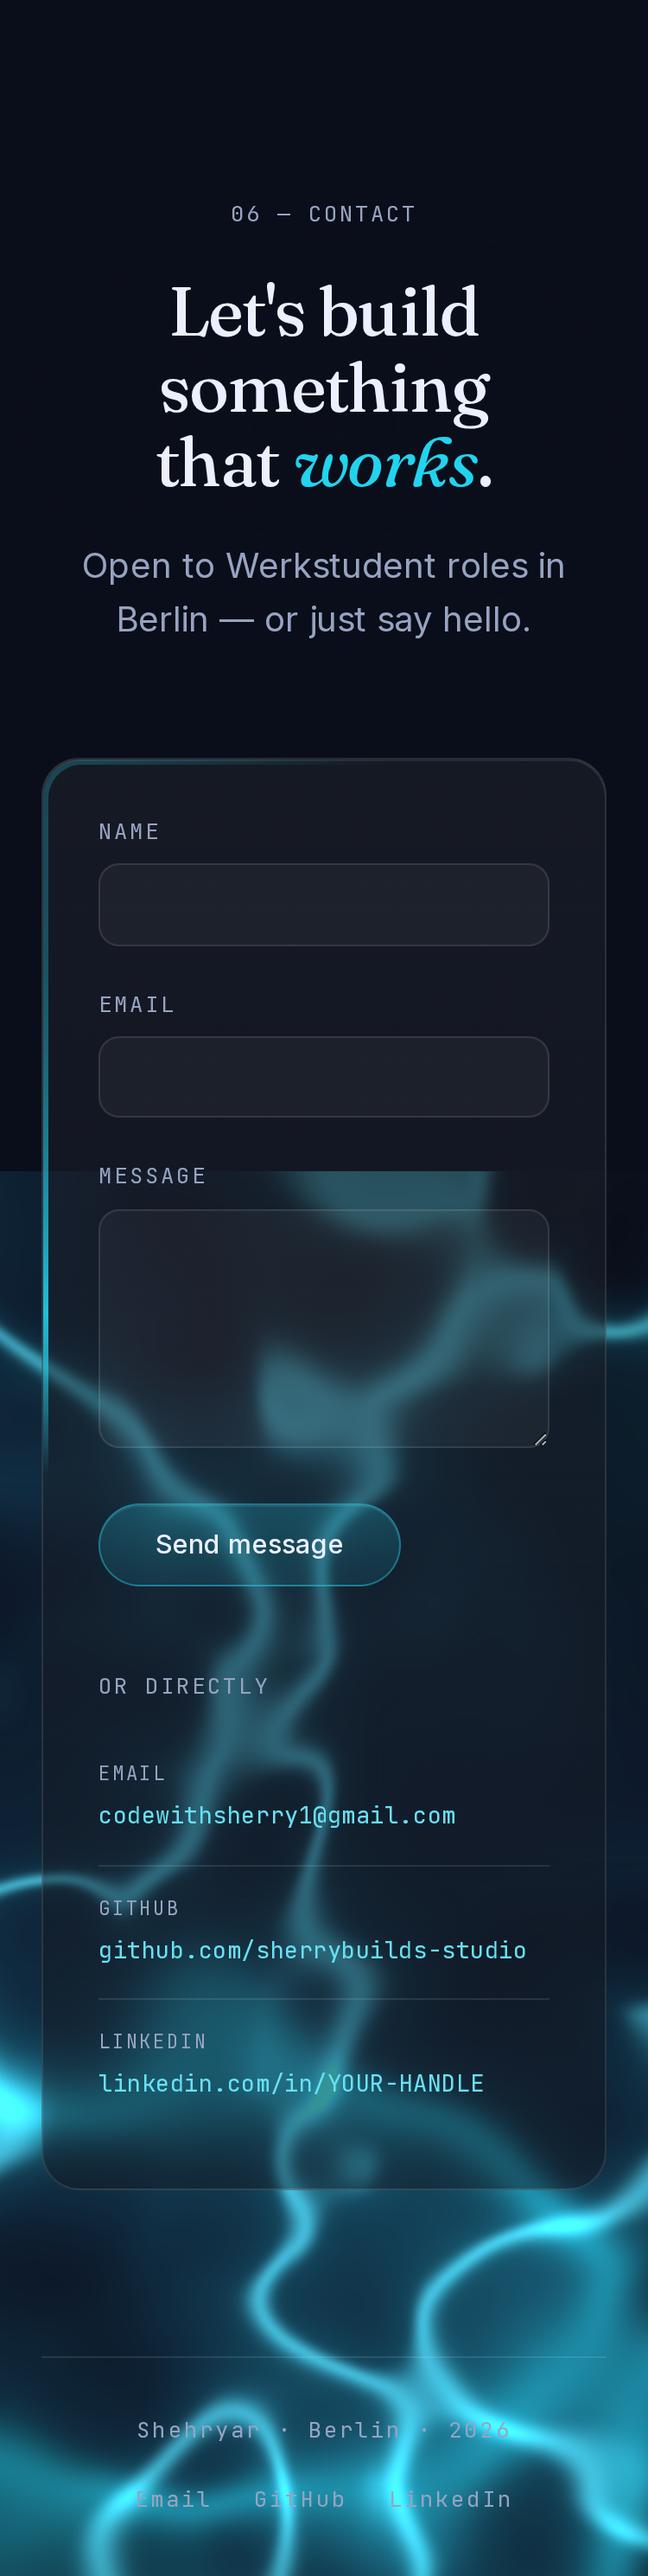
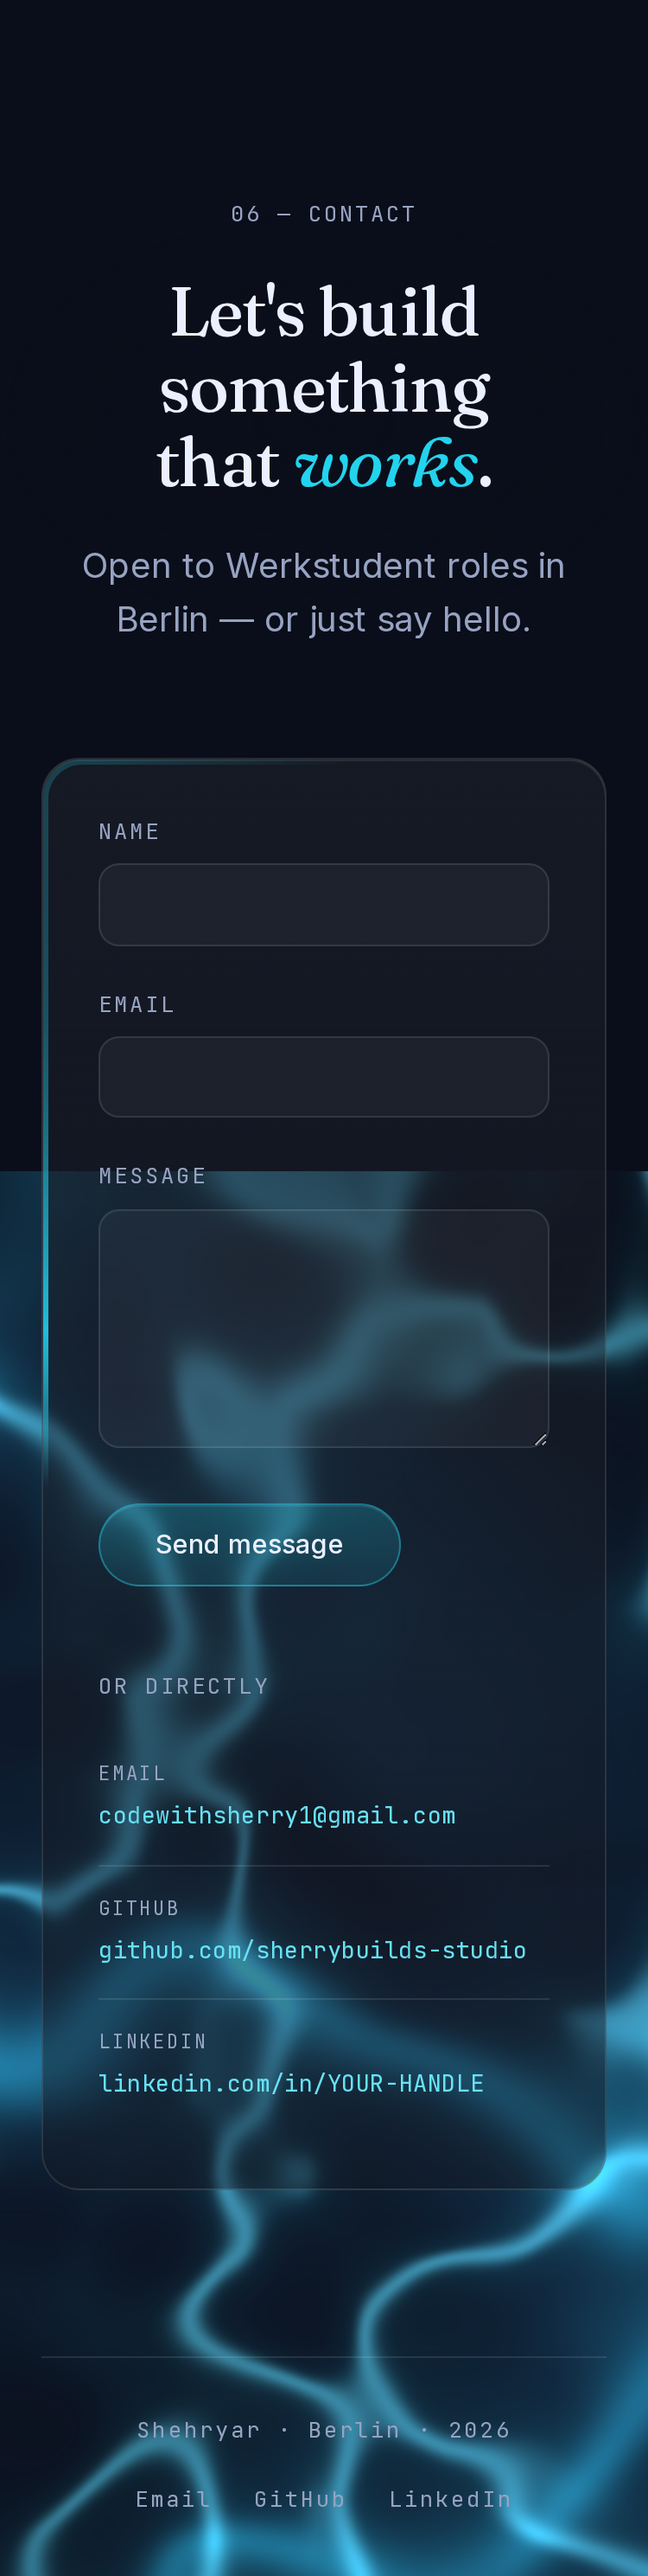
Revert "feat(portfolio-dark): content-reactive ferrofluid — events drive the shader"
This reverts commit 5e8796414beff160fab02d432f6d3669c1e147fd.

Changed region(s): [[0.0, 0.4372, 1.0, 1.0], [0.9507, 0.5934, 1.0, 0.6558], [0.9813, 0.4372, 1.0, 0.4684]]

diff --git a/src/components/portfolio-dark/Ferrofluid.tsx b/src/components/portfolio-dark/Ferrofluid.tsx
@@ -1,7 +1,6 @@
 "use client";
 
 import { useEffect, useRef } from "react";
-import { fluidBus } from "@/lib/fluidBus";
 
 /**
  * Ferrofluid ambient background — THE one site-wide layer behind all
@@ -32,7 +31,6 @@ uniform float uCyan;   /* cyan mix in the tendrils (glow warmth) */
 uniform float uTurb;   /* domain-warp amount — churn / chaos */
 uniform float uWarm;   /* shift toward indigo for the About settle */
 uniform float uBright; /* overall intensity */
-uniform float uDir;    /* transient directional advection (event pulse) */
 
 float hash(vec2 p) { return fract(sin(dot(p, vec2(127.1, 311.7))) * 43758.5453); }
 
@@ -65,10 +63,8 @@ void main() {
 
   float t = uTime * 0.05; // continuous, slow (flow SPEED eased in JS via uTime)
 
-  // domain warp — the "magnetic" flow; uTurb drives churn per section,
-  // uDir sends a transient directional shove (How-I-Build step activation)
+  // domain warp — the "magnetic" flow; uTurb drives churn per section
   vec2 warp = vec2(fbm(p + vec2(0.0, 3.7), t), fbm(p + vec2(5.2, 1.3), t * 0.85)) * uTurb;
-  warp += uDir * vec2(0.6, -0.35);
 
   vec3 blue = vec3(0.231, 0.51, 0.965);   /* --accent-2 #3B82F6 */
   vec3 cyan = vec3(0.133, 0.827, 0.933);  /* --accent   #22D3EE */
@@ -178,7 +174,6 @@ export default function Ferrofluid() {
     const uTurb = gl.getUniformLocation(prog, "uTurb");
     const uWarm = gl.getUniformLocation(prog, "uWarm");
     const uBright = gl.getUniformLocation(prog, "uBright");
-    const uDir = gl.getUniformLocation(prog, "uDir");
 
     // Mobile matches desktop richness: full 3-tier detail + near-equal
     // intensity. Affordable because the phone canvas has ~4x fewer pixels
@@ -272,19 +267,12 @@ export default function Ferrofluid() {
       const breath = 0.12 * Math.sin(timeSec * 0.13) + 0.06 * Math.sin(timeSec * 0.041);
       phase += dt * mood[0] * (1.0 + breath);
 
-      // event boosts (count-up / card-enter / step-activate) ride ON TOP of
-      // the base mood, then decay toward rest so each pulse spikes + settles
-      const boost = fluidBus.read();
-      // flow speed also gets a small lift from turbulence pulses (feels alive)
-      phase += dt * boost.turb * 0.35;
       gl.uniform1f(uScroll, scrollCurrent);
-      gl.uniform1f(uCyan, Math.min(1.5, mood[1] + boost.cyan));
-      gl.uniform1f(uTurb, mood[2] + boost.turb);
+      gl.uniform1f(uCyan, mood[1]);
+      gl.uniform1f(uTurb, mood[2]);
       gl.uniform1f(uWarm, mood[3]);
-      gl.uniform1f(uBright, mood[4] + boost.bright);
-      gl.uniform1f(uDir, boost.dir);
+      gl.uniform1f(uBright, mood[4]);
       gl.uniform1f(uTime, phase);
-      fluidBus.decay(0.92); // ~0.4s settle at 30fps
       gl.clearColor(0, 0, 0, 0);
       gl.clear(gl.COLOR_BUFFER_BIT);
       gl.drawArrays(gl.TRIANGLES, 0, 3);
@@ -298,7 +286,6 @@ export default function Ferrofluid() {
       gl.uniform1f(uTurb, 1.0);
       gl.uniform1f(uWarm, 0.0);
       gl.uniform1f(uBright, 1.1);
-      gl.uniform1f(uDir, 0.0);
       gl.uniform1f(uTime, 40);
       gl.clearColor(0, 0, 0, 0);
       gl.clear(gl.COLOR_BUFFER_BIT);

diff --git a/src/components/portfolio-dark/DarkHowIBuild.tsx b/src/components/portfolio-dark/DarkHowIBuild.tsx
@@ -3,7 +3,6 @@
 import { useRef } from "react";
 import Reveal from "@/components/portfolio/Reveal";
 import { gsap, ScrollTrigger, useGSAP, EASE } from "@/lib/gsap";
-import { fluidBus } from "@/lib/fluidBus";
 
 const STEPS = [
   {
@@ -63,11 +62,6 @@ export default function DarkHowIBuild() {
             panel.style.opacity = Math.max(0.4, 1 - dn * 0.6).toFixed(3);
           });
           if (best !== active) {
-            // a step just activated — send a directional pulse through the
-            // fluid (sign follows scroll direction: forward vs back)
-            if (active !== -1 && best !== -1) {
-              fluidBus.pulse({ dir: best > active ? 0.7 : -0.7, turb: 0.25, cyan: 0.2 });
-            }
             active = best;
             panels.forEach((panel, i) => panel.classList.toggle("is-active", i === best));
           }

diff --git a/src/components/portfolio-dark/DarkWork.tsx b/src/components/portfolio-dark/DarkWork.tsx
@@ -3,7 +3,6 @@
 import { useEffect, useRef, useState } from "react";
 import Reveal from "@/components/portfolio/Reveal";
 import { gsap, ScrollTrigger, useGSAP, EASE, prefersReducedMotion } from "@/lib/gsap";
-import { fluidBus } from "@/lib/fluidBus";
 
 type CaseStudy = {
   index: string;
@@ -182,12 +181,7 @@ export default function DarkWork() {
             trigger: card,
             start: "clamp(top 80%)",
             once: true,
-            onEnter: () => {
-              tl.play();
-              // moving between systems: a brief energy/turbulence nudge that
-              // settles — direction alternates with the card's slide side
-              fluidBus.pulse({ turb: 0.4, bright: 0.14, dir: i % 2 === 0 ? -0.5 : 0.5 });
-            },
+            onEnter: () => tl.play(),
           });
         });
       });

diff --git a/src/components/portfolio-dark/DarkProof.tsx b/src/components/portfolio-dark/DarkProof.tsx
@@ -3,7 +3,6 @@
 import { useRef } from "react";
 import { gsap, EASE, SplitText, useGSAP } from "@/lib/gsap";
 import Reveal from "@/components/portfolio/Reveal";
-import { fluidBus } from "@/lib/fluidBus";
 
 type Metric = {
   value: string; // final display value, also the SSR/reduced-motion state
@@ -99,11 +98,6 @@ export default function DarkProof() {
       ease: EASE,
       onUpdate: () => {
         el.textContent = state.v.toFixed(decimals);
-        // pulse the ferrofluid IN SYNC with the tick-up: cyan + energy rise
-        // with count progress, then settle once the numbers stop (the bus
-        // decays after the last onUpdate).
-        const prog = target > 0 ? state.v / target : 1;
-        fluidBus.pulse({ cyan: 0.55 * prog, bright: 0.22 * prog, turb: 0.18 * prog });
       },
     });
   };
